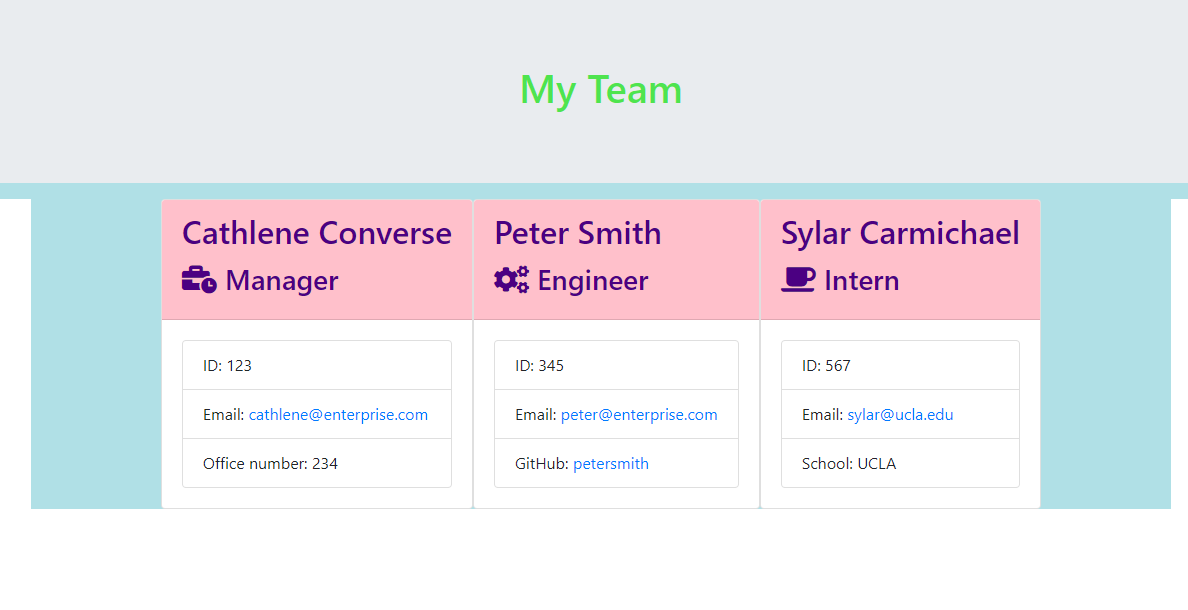
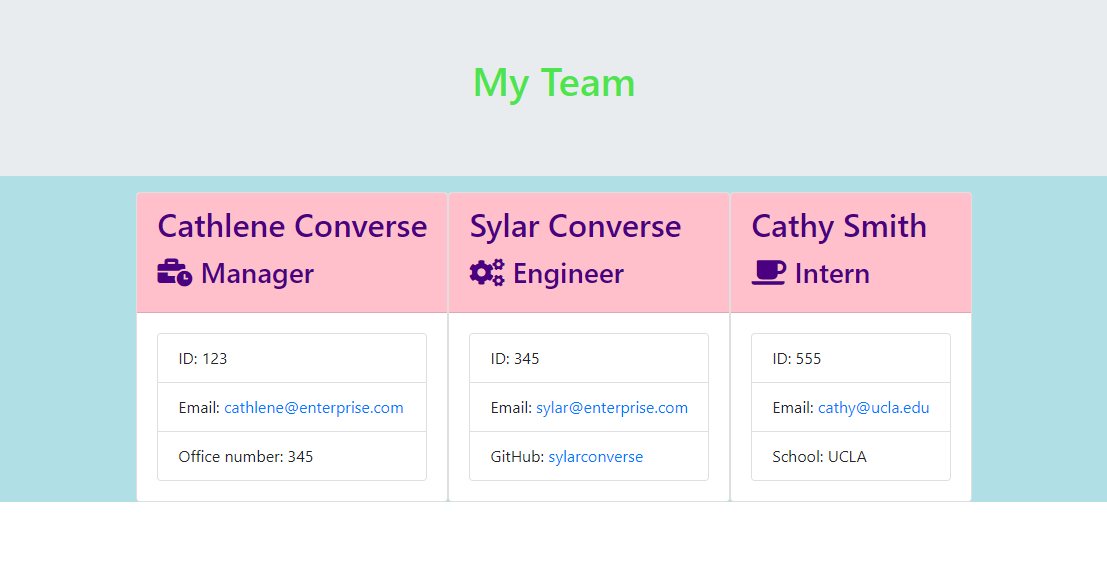
added gif and updated screenshot

Changed region(s): [[0.0, 0.3077, 1.0, 0.8615], [0.43, 0.0923, 0.5836, 0.1846]]

diff --git a/Develop/output/team.html b/Develop/output/team.html
@@ -32,32 +32,32 @@
         <ul class="list-group">
             <li class="list-group-item">ID: 123</li>
             <li class="list-group-item">Email: <a href="mailto:cathlene@enterprise.com">cathlene@enterprise.com</a></li>
-            <li class="list-group-item">Office number: 234</li>
+            <li class="list-group-item">Office number: 345</li>
         </ul>
     </div>
 </div>
 <div class="card employee-card">
     <div class="card-header">
-        <h2 class="card-title">Peter Smith</h2>
+        <h2 class="card-title">Sylar Converse</h2>
         <h3 class="card-title"><i class="fas fa-cogs mr-2"></i>Engineer</h3>
     </div>
     <div class="card-body">
         <ul class="list-group">
             <li class="list-group-item">ID: 345</li>
-            <li class="list-group-item">Email: <a href="mailto:peter@enterprise.com">peter@enterprise.com</a></li>
-            <li class="list-group-item">GitHub: <a href="https://github.com/petersmith" target="_blank" rel="noopener noreferrer">petersmith</a></li>
+            <li class="list-group-item">Email: <a href="mailto:sylar@enterprise.com">sylar@enterprise.com</a></li>
+            <li class="list-group-item">GitHub: <a href="https://github.com/sylarconverse" target="_blank" rel="noopener noreferrer">sylarconverse</a></li>
         </ul>
     </div>
 </div>
 <div class="card employee-card">
     <div class="card-header">
-        <h2 class="card-title">Sylar Carmichael</h2>
+        <h2 class="card-title">Cathy Smith</h2>
         <h3 class="card-title"><i class="fas fa-coffee mr-2"></i>Intern</h3>
     </div>
     <div class="card-body">
         <ul class="list-group">
-            <li class="list-group-item">ID: 567</li>
-            <li class="list-group-item">Email: <a href="mailto:sylar@ucla.edu">sylar@ucla.edu</a></li>
+            <li class="list-group-item">ID: 555</li>
+            <li class="list-group-item">Email: <a href="mailto:cathy@ucla.edu">cathy@ucla.edu</a></li>
             <li class="list-group-item">School: UCLA</li>
         </ul>
     </div>

diff --git a/README.md b/README.md
@@ -11,6 +11,9 @@ so that I have quick access to emails and GitHub profiles
 ## Screenshot
 ![Screenshot](Assets/images/TeamProfileGenerator.png)
 
+## Demo
+![Screenshot](Assets/images/TeamProfileGenerator.gif)
+
 ## Link
 
 Repo: https://github.com/cgconverse/Team-Profile-Generator
